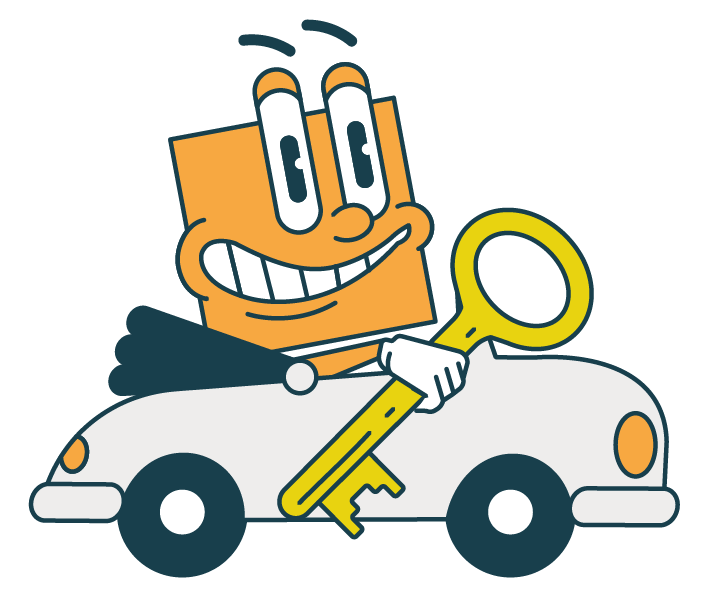
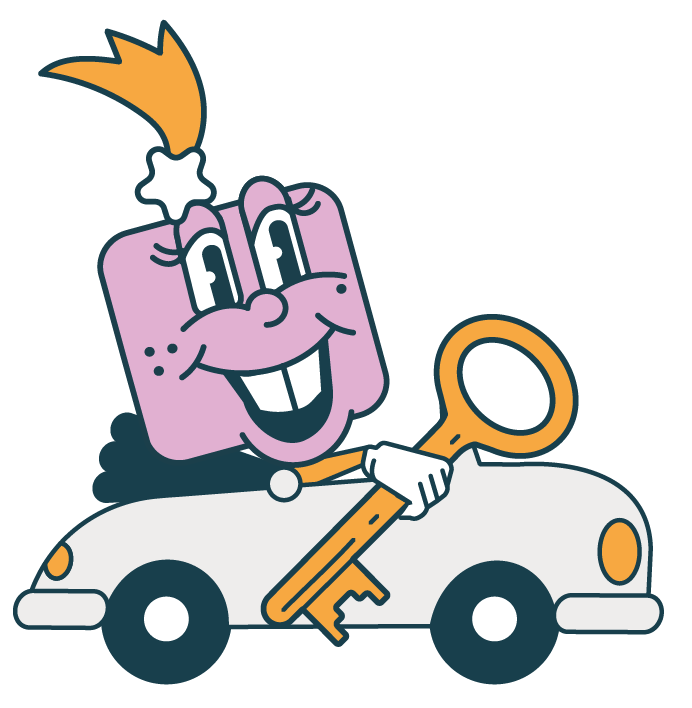
Added some new images as well as animation for task 10

diff --git a/src/task/content.js b/src/task/content.js
@@ -1002,11 +1002,11 @@ const tasks = [
   {
     time: 180,
     introNb:
-      'Tastaturid har mistet nøkkelen til huset sitt. Jeg må kjøre til Tastaturid med en reservenøkkel. Du må hjelpe meg å kjøre. Du skal taste de nye bokstavene b og n. Husk å plassere fingrene på ledetastene. Du må flytte venstre pekefinger ned til b. Du må flytte høyre pekefinger ned til n. La oss skynde oss til Tastaturid. ',
+      'Jeg har mistet nøkkelen til huset mitt. Jeg har ringt til Tastaturid for å få hjelp. Hun kommer med en reservenøkkel. Du må hjelpe henne å kjøre. Du skal taste de nye bokstavene b og n. Husk å plassere fingrene på ledetastene. Du må flytte venstre pekefinger ned til b. Du må flytte høyre pekefinger ned til n. La oss skynde oss til Tastaturid.',
     introNn:
-      'Tastaturid har mista nøkkelen til huset sitt. Eg må køyre til Tastaturid med ein reservenøkkel. Du må hjelpe meg å køyre. Du skal taste dei nye bokstavane b og n. Hugs å plassere fingrane på leietastane. Du må flytte venstre peikefinger ned til b. Du må flytte høgre peikefinger ned til n. La oss skunde oss til Tastaturid. ',
-    successNb: 'Værsågod Tastaturid. Her er nøkkelen din.',
-    successNn: 'Værsågod Tastaturid. Her er nøkkelen din.',
+      'Eg har mista nøkkelen til huset mitt. Eg har ringt til Tastaturid for å få hjelp. Ho kjem med ein reservenøkkel. Du må hjelpe ho å køyre. Du skal taste dei nye bokstavane b og n. Hugs å plassere fingrane på leietastane. Du må flytte venstre peikefinger ned til b. Du må flytte høgre peikefinger ned til n. La oss skunde oss til Tastaturid.',
+    successNb: 'Tusen takk, så bra at Tastaturid hadde en reservenøkkel.',
+    successNn: 'Tusen takk, så bra at Tastaturid hadde ein reservenøkkel.',
     failureNb: 'Prøv en gang til.',
     failureNn: 'Prøv ein gong til.',
     task: [
@@ -1592,8 +1592,26 @@ const tasks = [
       l,
       'sel ',
     ],
-    startPosition: [0, -25],
-    animation: [[70, 40]],
+    startPosition: [0, 24],
+    animation: [
+      [6, 9],
+      [9, 15],
+      [13, 23], 
+      [16, 21],
+      [19, 8],
+      [23, 14],
+      [29, 14],
+      [39, 19],
+      [46, 16],
+      [52, 12],
+      [59, 8],
+      [64, 16],
+      [69, 24],
+      [72, 12],
+      [76, 6],
+      [80, 1],
+      [83, 1]
+    ],
   },
   {
     time: 180,
@@ -1712,24 +1730,24 @@ const tasks = [
       'comma',
       c,
       d,
-      'cd',
+      'cd ',
       v,
       i,
       l,
-      'vil',
+      'vil ',
       s,
       i,
       d,
       e,
-      'side',
+      'side ',
       m,
       i,
       l,
-      'mil',
+      'mil ',
       v,
       e,
       v,
-      'vev',
+      'vev ',
       v,
       e,
       v,
@@ -2507,13 +2525,13 @@ const tasks = [
   {
     time: 180,
     introNb:
-      'Se, Tastaturid er på toppen av fjellet! Jeg vil opp til henne. For å hjelpe meg opp, må du denne gangen trykke ulike tegn på tastaturet. De fleste tegna finner du på raden sammen med tallene. Her får du en utfordring fordi du må holde nede skifttasten samtidig som du trykker på tasten med rett tegn! Husker du hvordan skifttasten ser ut? Du skal trykke ned skifttasten med venstre lillefinger og tegntasten med høyre hånd.Trykk på start, så begynner vi klatringen.',
+      'Se, Tastaturid er der nede! Jeg håper hun klarer å klatre opp hit. For å hjelpe henne opp, må du denne gangen trykke ulike tegn på tastaturet. De fleste tegnene finner du på raden sammen med tallene. Her får du en utfordring fordi du må holde nede skifttasten samtidig som du trykker på tasten med rett tegn! Husker du hvordan skifttasten ser ut? Du skal trykke ned skifttasten med venstre lillefinger og tegntasten med høyre hånd. Kom igjen-trykk start! ',
     introNn:
-      'Sjå, Tastaturid er på toppen av fjellet!  Eg vil opp til ho. For å hjelpe meg opp, må du denne gongen trykke ulike teikn på tastaturet. Dei fleste teikna finn du på rada saman med tala. Her får du ei utfordring fordi du må halde nede skifttasten samstundes som du trykker på tasten med rett teikn! Hugsar du korleis skifttasten ser ut? Du skal trykke ned skifttasten med venstre veslefinger og teikntasten med høgre hand. Trykk på start, så startar vi klatringa.  ',
-    successNb: 'Endelig på toppen!',
-    successNn: 'Endeleg på toppen!',
-    failureNb: 'La oss prøve en gang til.',
-    failureNn: 'La oss prøve ein gong til.',
+      'Sjå, Tastaturid er der nede!  Eg håper ho klarer å klatre opp hit. For å hjelpe ho opp, må du denne gongen trykke ulike teikn på tastaturet. Dei fleste teikna finn du på rada saman med tala. Her får du ei utfordring fordi du må halde nede skifttasten samstundes som du trykker på tasten med rett teikn! Hugsar du korleis skifttasten ser ut? Du skal trykke ned skifttasten med venstre veslefinger og teikntasten med høgre hand.',
+    successNb: 'Så kjekt å se deg, Tastaturid!',
+    successNn: 'Så kjekt å sjå deg, Tastaturid!',
+    failureNb: 'Prøv en gang til.',
+    failureNn: 'Prøv ein gong til.',
     task: [
       'exclamation',
       'exclamation',

diff --git a/src/task/ui.js b/src/task/ui.js
@@ -23,8 +23,16 @@ function initTask(sign) {
     document.getElementById('sign-left-column').classList.add('hidden');
     document.getElementById('blind-left-column').classList.remove('hidden');
   }
-  document.getElementById('start-tt-figurine').src =
-    imgSource + 'tastaturbo-' + taskNumber + '.png';
+  if (state.lection == 5) {
+    document.getElementById('start-tt-figurine').src =
+      imgSource + 'tastaturbo-' + taskNumber + '-start.png';
+  } else if (state.lection == 14) {
+    document.getElementById('start-tt-figurine').src =
+      imgSource + 'tastaturbo-' + taskNumber + '-start.png';
+  } else {
+    document.getElementById('start-tt-figurine').src =
+      imgSource + 'tastaturbo-' + taskNumber + '.png';
+  }
 
   if (state.langValue === 'Nb') {
     document.getElementById('intro-text-blind').innerHTML = task.introNb;
@@ -36,8 +44,12 @@ function initTask(sign) {
 
   document.getElementById('tt-figurine').src =
     imgSource + 'tastaturbo-' + taskNumber + '.png';
-  document.getElementById('tt-background').src =
-    imgSource + 'tastaturbo-bakgrunn-' + taskNumber + '.png';
+  if (state.lection == 9) {
+    document.getElementById('tt-background').src = imgSource + 'tastaturbo-10' + '-0.jpg'
+  } else {
+    document.getElementById('tt-background').src =
+      imgSource + 'tastaturbo-bakgrunn-' + taskNumber + '.png';
+  }
   document.getElementById('end-tt-figurine').src =
     imgSource + 'tastaturbo-' + taskNumber + '.png';
 }

diff --git a/src/task/animation.js b/src/task/animation.js
@@ -80,6 +80,19 @@ function progressAnimation() {
   if (animation.length > 2) {
     // Do a rotation
   }
+
+  let bg = document.getElementById('tt-background');
+  let fig = document.getElementById('tt-figurine');
+  if (state.lection == 9) { // Oppgave 10 - Plukke epler
+    console.log(Math.ceil(currentAnimationStep / 2));
+    if (currentAnimationStep % 2 == 1) {
+      document.getElementById('tt-background').src = '../img/tastaturbo-10-' + Math.ceil(currentAnimationStep / 2) + '.jpg';
+    }
+  } else if (state.lection == 13) { // Oppgave 14 - Puslespill
+
+  } else if (state.lection == 16) { // Oppgave Tall - Fiske
+
+  }
 }
 
 export { initAnimation, progressAnimation };

diff --git a/src/task/task.js b/src/task/task.js
@@ -64,7 +64,7 @@ function init() {
       }
     } else {
       addSoundToQueue(task.trim());
-      addSoundToQueue(tassk[0]);
+      addSoundToQueue(task[0]);
     }
   } else {
     addSoundToQueue(task);
